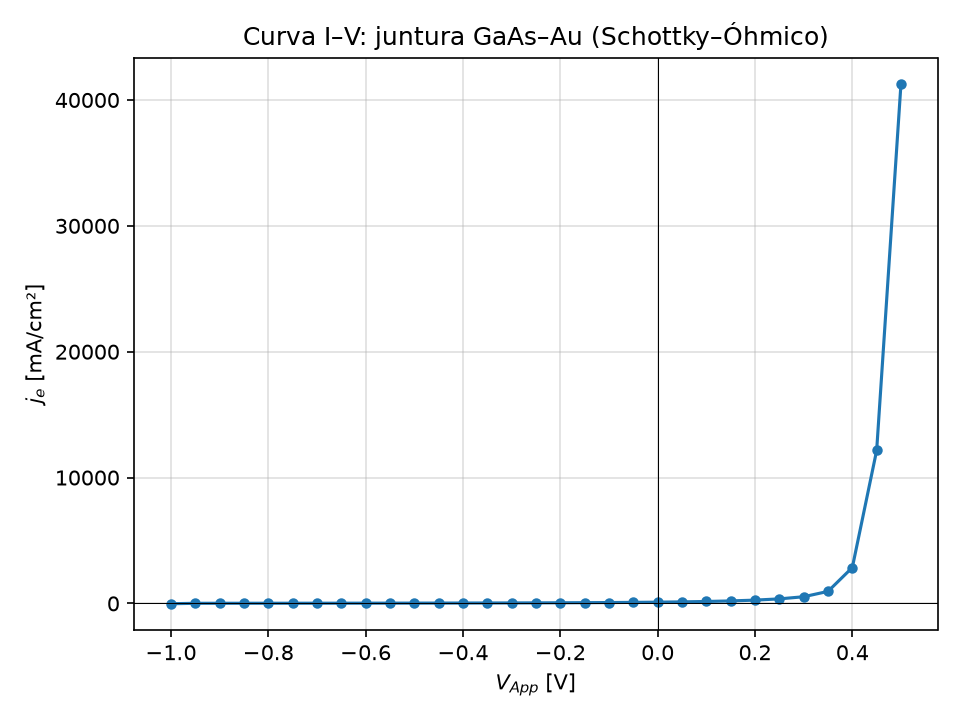
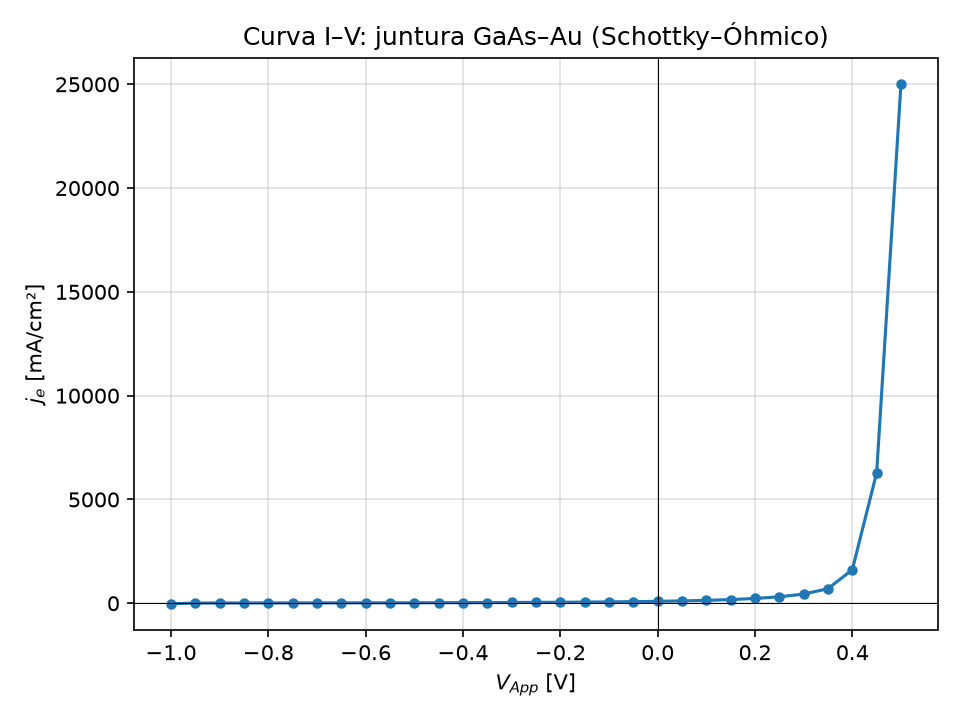
Agregado Readme final

diff --git a/README_final.md b/README_final.md
@@ -1,0 +1,125 @@
+# PCA---Proyecto-SciPy
+# PHOTOCONDUCTIVE ANTENNA
+✨ Autoras ✨
+
+Lucía Cervantes Schamun
+
+Candela Lopez Porto
+
+Qué hace el proyecto
+--------------------
+Simula en 1D una juntura de GaAs con dos contactos de oro: un contacto
+Schottky en x=0 y uno óhmico en x=L. Para cada tensión aplicada V_app
+resuelve juntas la ecuación de continuidad de electrones y la de Poisson,
+avanzando en el tiempo hasta llegar al estado estacionario. Con eso
+calcula la corriente y arma la curva I-V.
+
+
+Cómo está construido main.py
+----------------------------
+main.py solo organiza el flujo del programa. Todas las funciones están en
+los otros módulos. Los pasos de main() son:
+
+  1. Parámetros: cargar_parametros("constantes.txt", "parametros.txt")
+     devuelve el objeto `param` (param.mu_e, param.T, ...). Ese objeto se
+     pasa como argumento a todas las funciones.
+
+  2. Grilla: dx = L/N y dt = 0.4·dx²/D_e, que deja D·dt/dx² = 0.4, por
+     debajo del límite de estabilidad de 0.5.
+
+  3. Validación: validar(param, dt) revisa que los parámetros sean
+     físicos, la relación de Einstein y la estabilidad del esquema.
+
+  4. Magnitudes de equilibrio: nisc (densidad intrínseca), n0_L (densidad
+     de equilibrio en el contacto óhmico) y phi_N (potencial del contacto
+     óhmico).
+
+  5. Equilibrio inicial: simular_vapp a V=0, partiendo de una densidad
+     uniforme n0_L.
+
+  6. Barrido de tensión: barrido_tension resuelve el estado estacionario
+     de V = -1 a 0.5 V en 31 puntos. Cada tensión arranca desde la
+     solución de la anterior (warm start), así converge más rápido.
+
+  7. Perfiles: perfiles_en_tensiones calcula n(x) y phi(x) en
+     V = 0, +0.3 y -0.5 V.
+
+  8. Gráficos: guarda curva_IV.png y perfiles_y_IV.png y muestra las
+     figuras.
+
+La función central es simular_vapp (en simulacion.py). Para una tensión
+dada repite este ciclo:
+  a. avanza un paso de continuidad (esquema explícito),
+  b. corrige n[0] con la condición de contorno del Schottky (tipo Robin),
+  c. resuelve Poisson con p=0 (huecos despreciables en GaAs tipo n),
+  d. corta cuando el cambio relativo de n entre pasos es menor que tol.
+Al final devuelve n, phi, la corriente y si convergió.
+
+
+Para qué sirve cada archivo
+---------------------------
+parametros.txt
+    Parámetros del material GaAs: mu_e, D_e, tau_e, epsilon, masas
+    efectivas, E_g, dopaje C, phi_B, v_e.
+
+constantes.txt
+    Constantes físicas (k_B, h) y parámetros de la simulación (T, L, N).
+
+lectura_parametros.py
+    Lee los .txt con formato "nombre = valor  # comentario". Acepta
+    expresiones como 0.063 * 9.11e-31 y las evalúa de forma segura con
+    ast, sin usar eval. cargar_parametros(...) devuelve el objeto param y
+    da error si un nombre aparece en más de un archivo.
+
+validacion_param.py
+    Revisa los parámetros antes de correr, usando Pydantic: que sean
+    positivos, que se cumpla la relación de Einstein D ≈ mu·kT (avisa si
+    no) y que el esquema sea estable (D·dt/dx² ≤ 1/2). También tiene
+    validar_arrays para revisar forma y NaN de los arrays.
+
+equilibrio.py
+    calcular_nisc, calcular_Nc y n_equilibrio.
+
+condiciones_contorno.py
+    Potenciales en los contactos óhmico y Schottky, n_eq_schottky y
+    bc_n_schottky (condición tipo Robin para n[0]).
+
+continuidad.py
+    paso_continuidad: un paso temporal explícito de la ecuación de
+    continuidad, con el flujo calculado en los puntos j+1/2.
+
+poisson.py
+    resolver_poisson: arma el sistema tridiagonal y lo resuelve con
+    scipy.linalg.solve_banded.
+
+simulacion.py
+    calcular_corriente, simular_vapp, barrido_tension (el loop de la I-V)
+    y perfiles_en_tensiones.
+
+graficos.py
+    graficar_curva_IV, graficar_perfiles_y_IV y mostrar.
+
+main.py
+    Programa principal (ver arriba). Se corre con:  python main.py
+
+proyecto_final.ipynb
+    Notebook con el desarrollo de las ecuaciones y del modelo.
+
+bibliografía/
+    PDFs de referencia sobre junturas y antenas fotoconductivas (PCA).
+
+pyproject.toml, src/pca_proyecto_scipy/
+    Plantilla que generó "uv init". No se usa todavía y la lista de
+    dependencias está vacía.
+
+curva_IV.png, perfiles_y_IV.png
+    Gráficos que genera main.py.
+
+__pycache__/
+    Archivos compilados de Python. No deberían estar en git; conviene
+    agregarlos a un .gitignore.
+
+
+Dependencias
+------------
+numpy, scipy, matplotlib, pydantic, argparse
